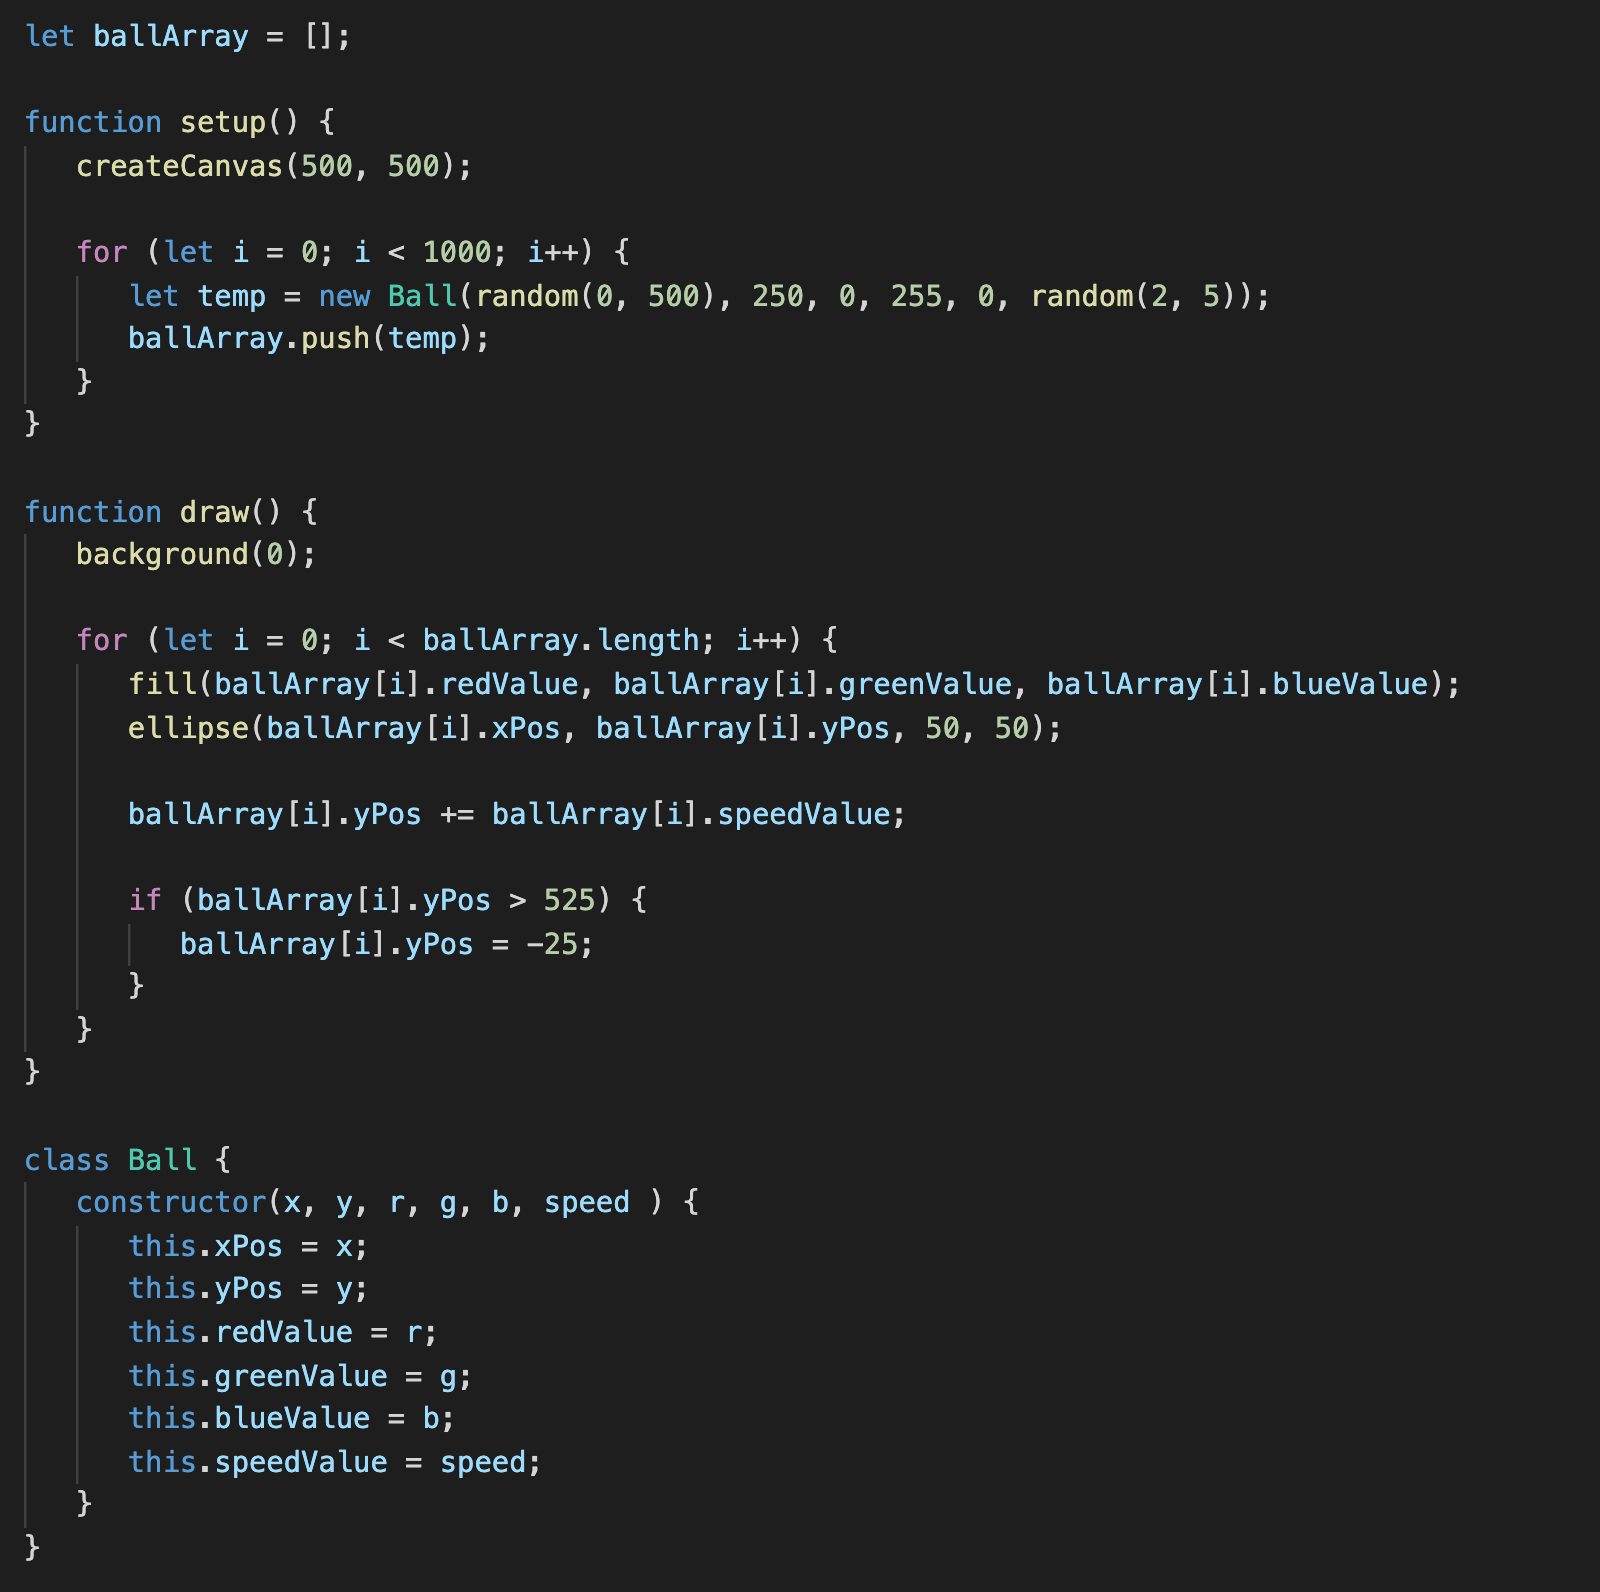
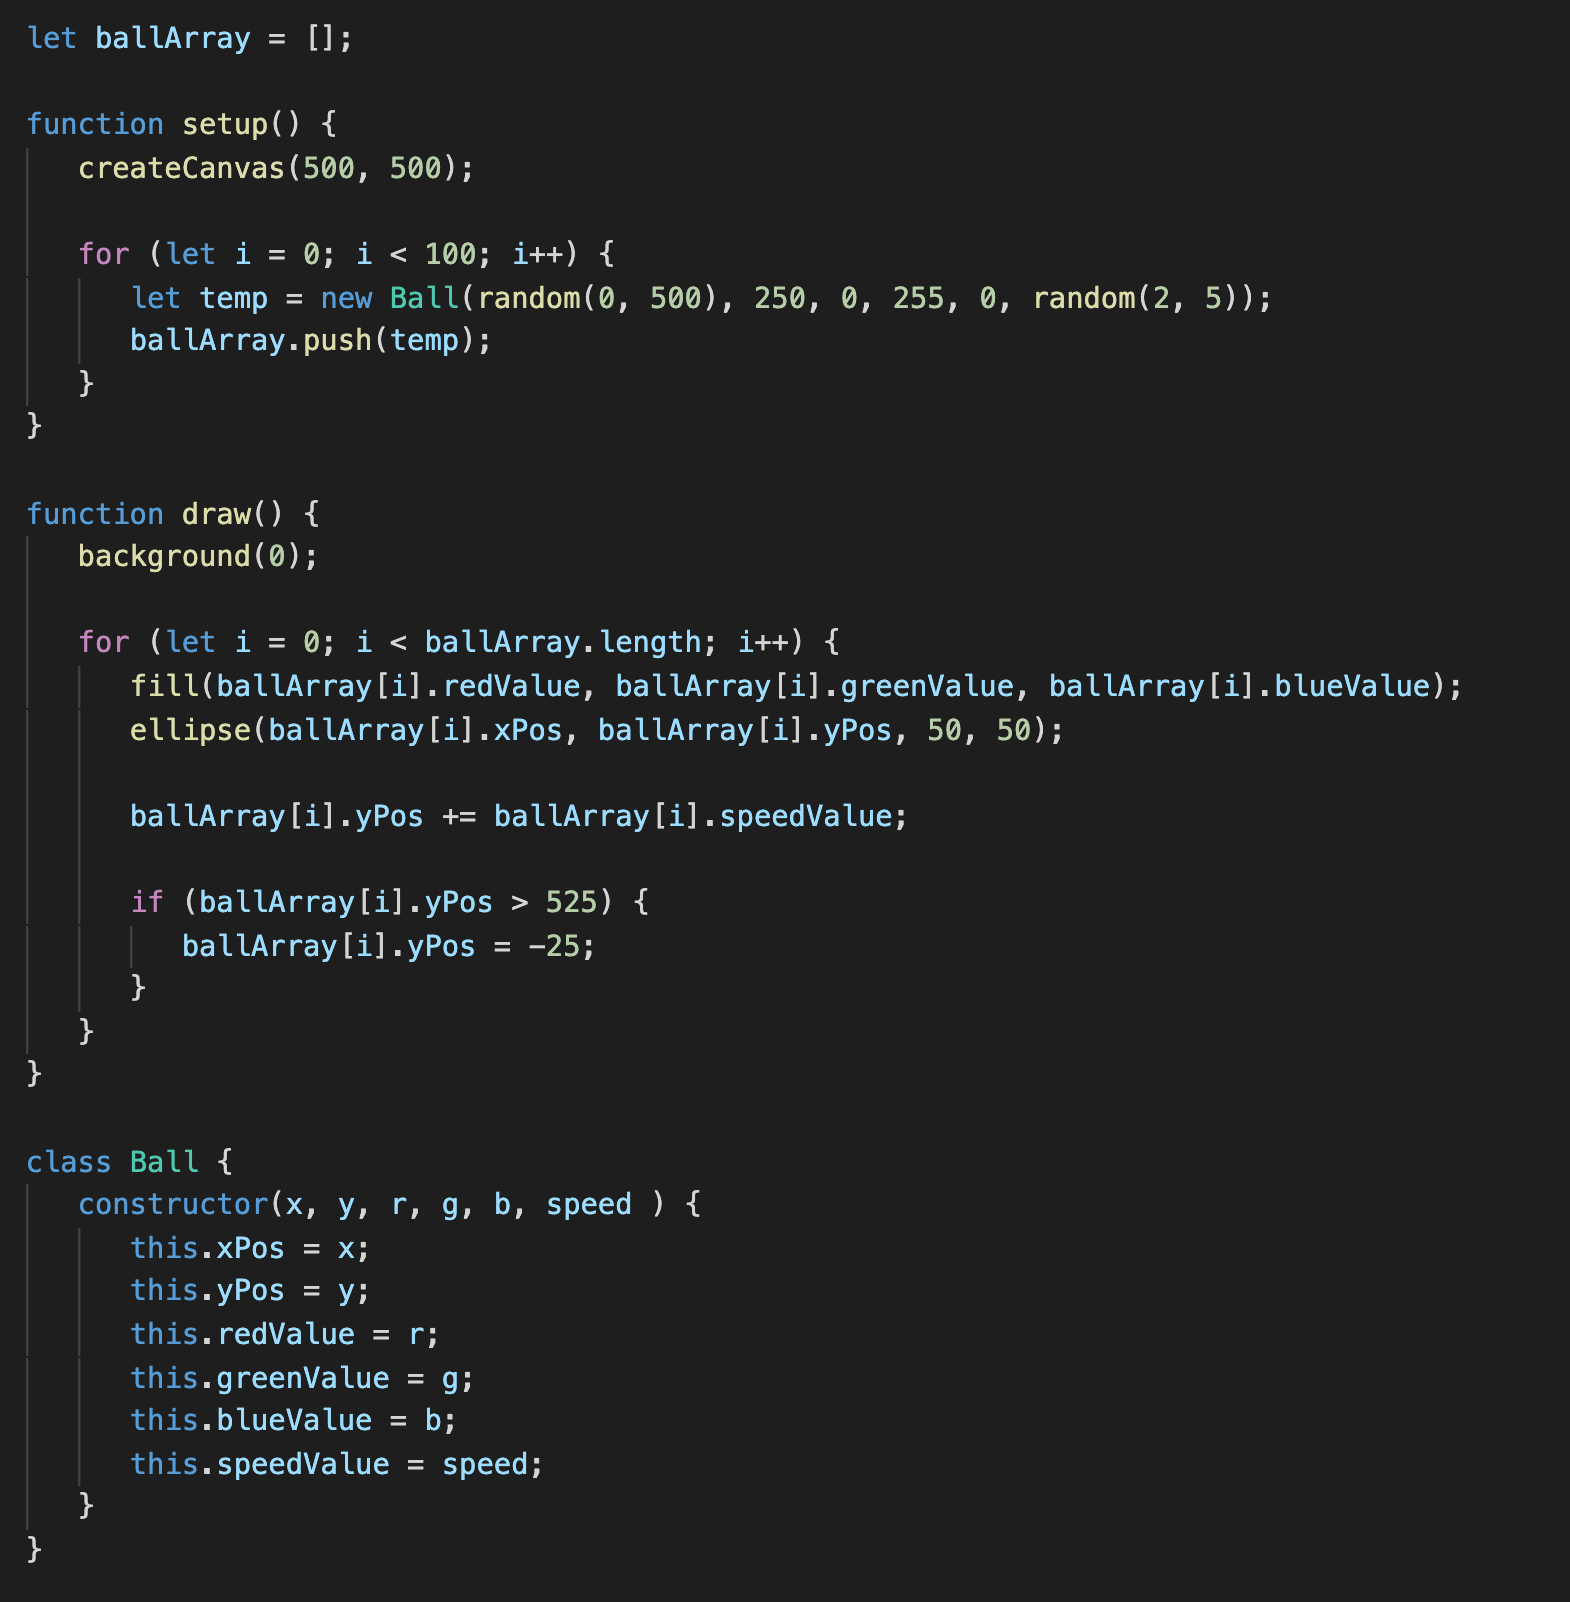
first commit

diff --git a/index.html b/index.html
@@ -3,7 +3,7 @@
   <head>
       <meta charset="UTF-8">
       <link rel="stylesheet" type="text/css" href="style.css">
-      <title>With OOP - 500 Objects</title>
+      <title>With OOP - 100 Objects</title>
   </head>
  
   <body>
